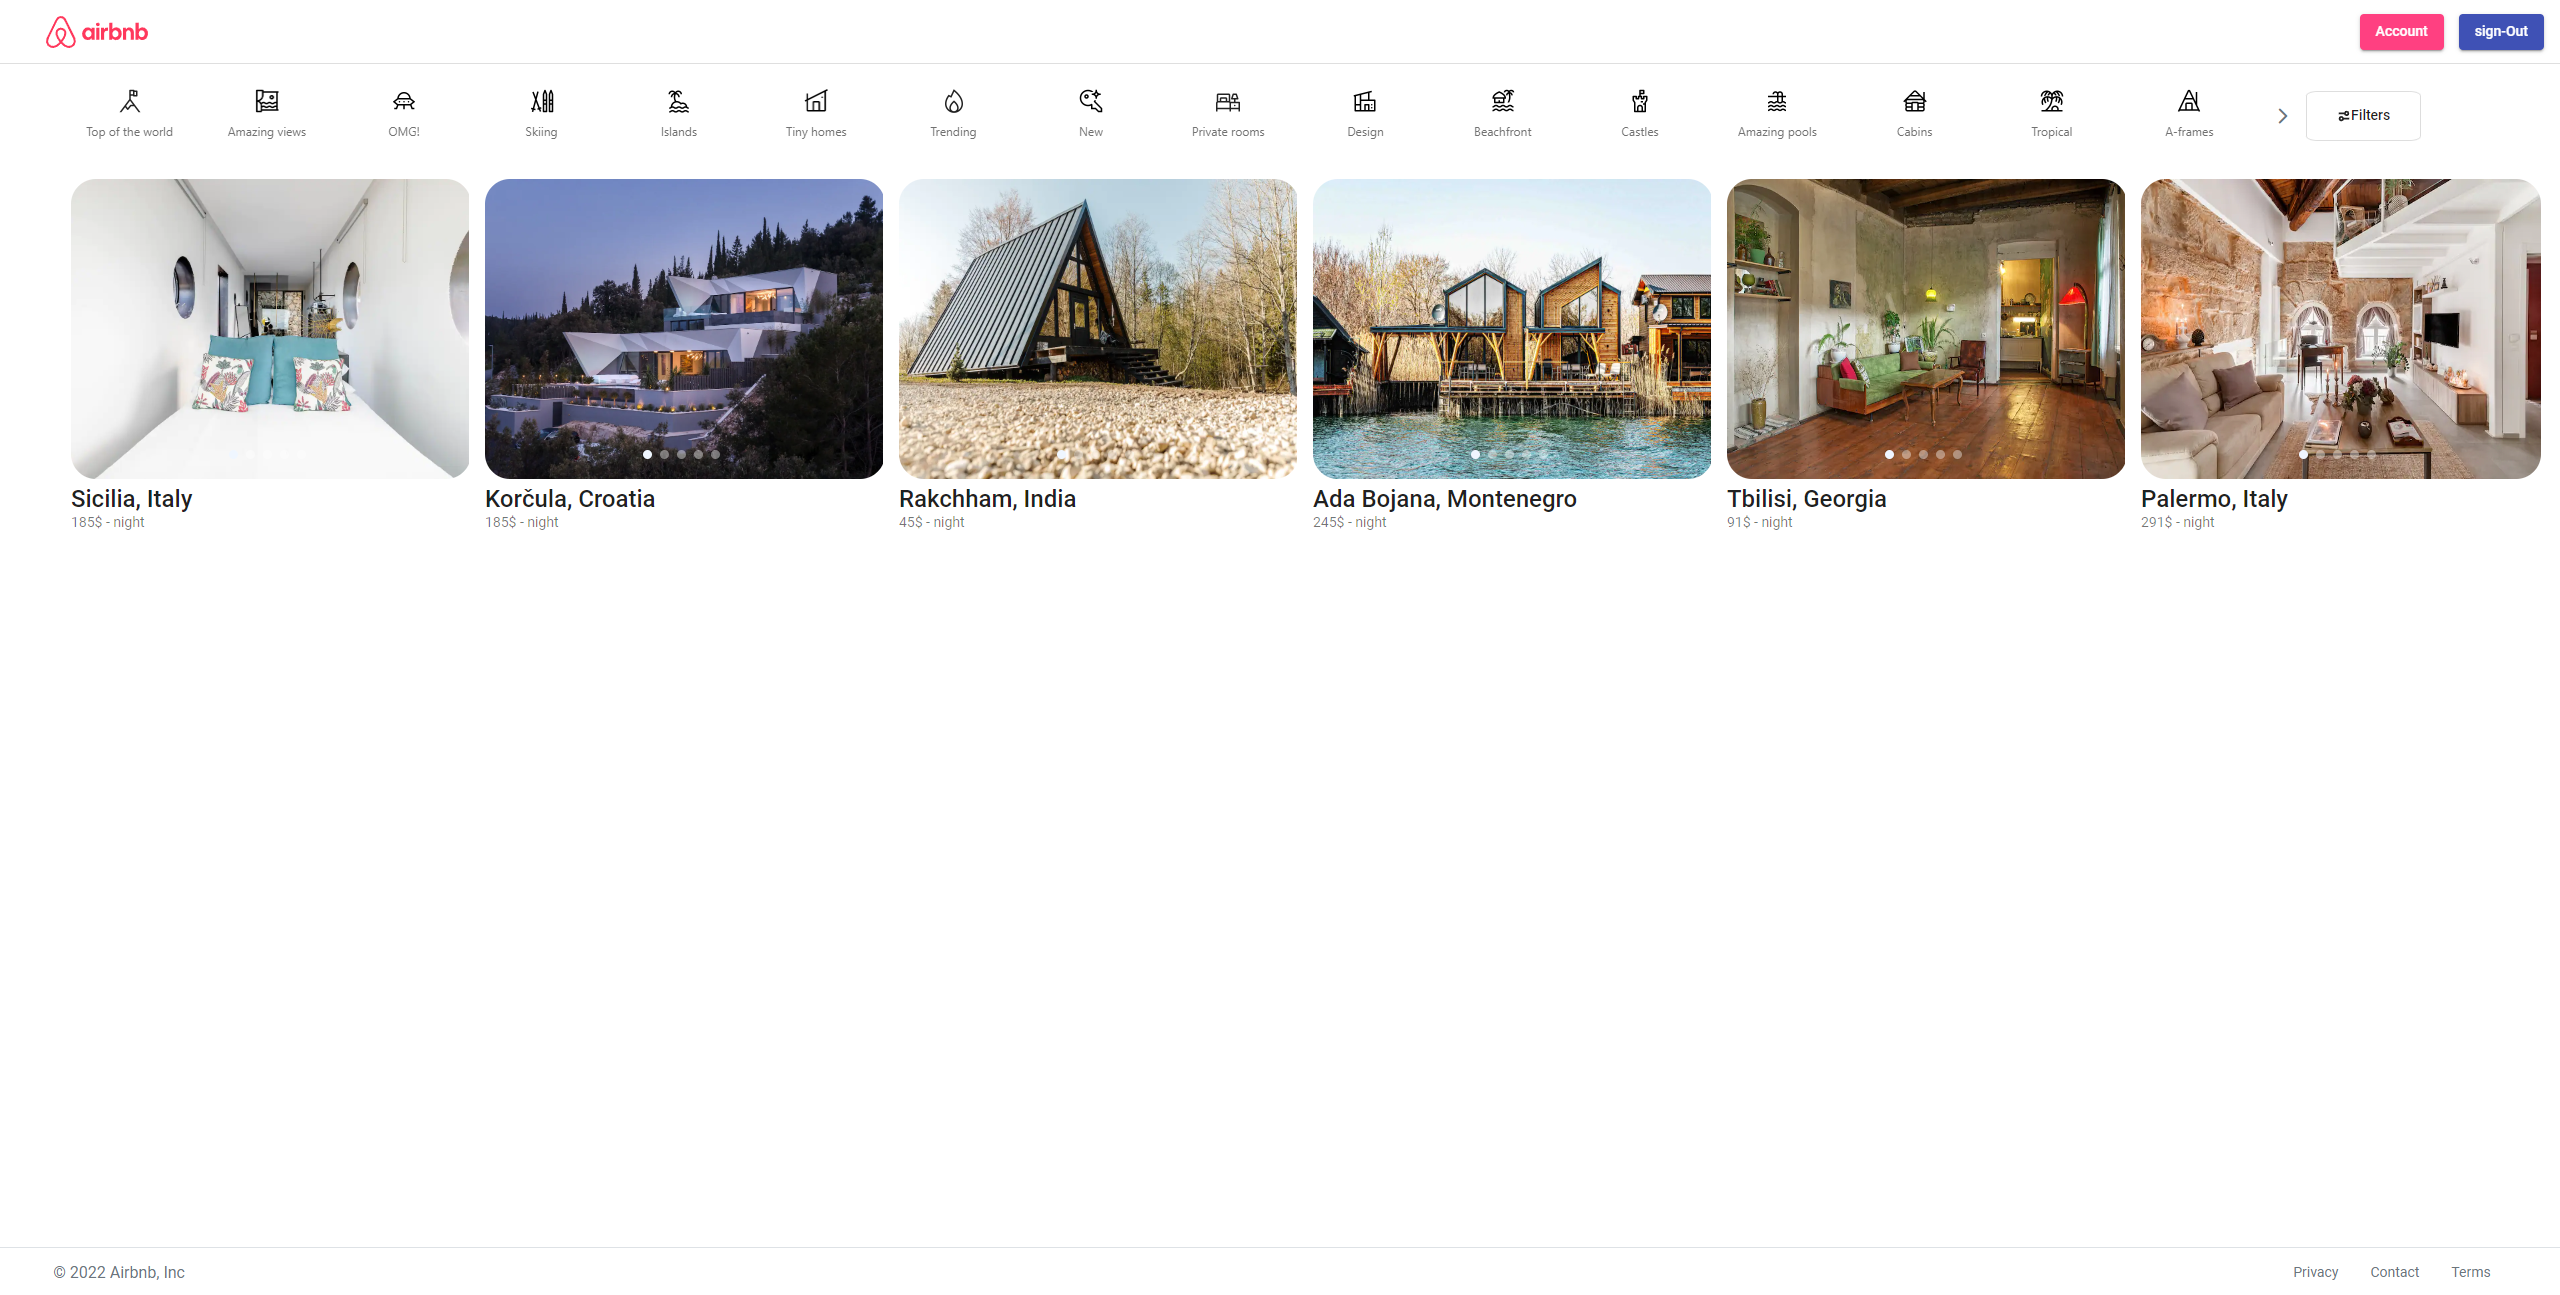
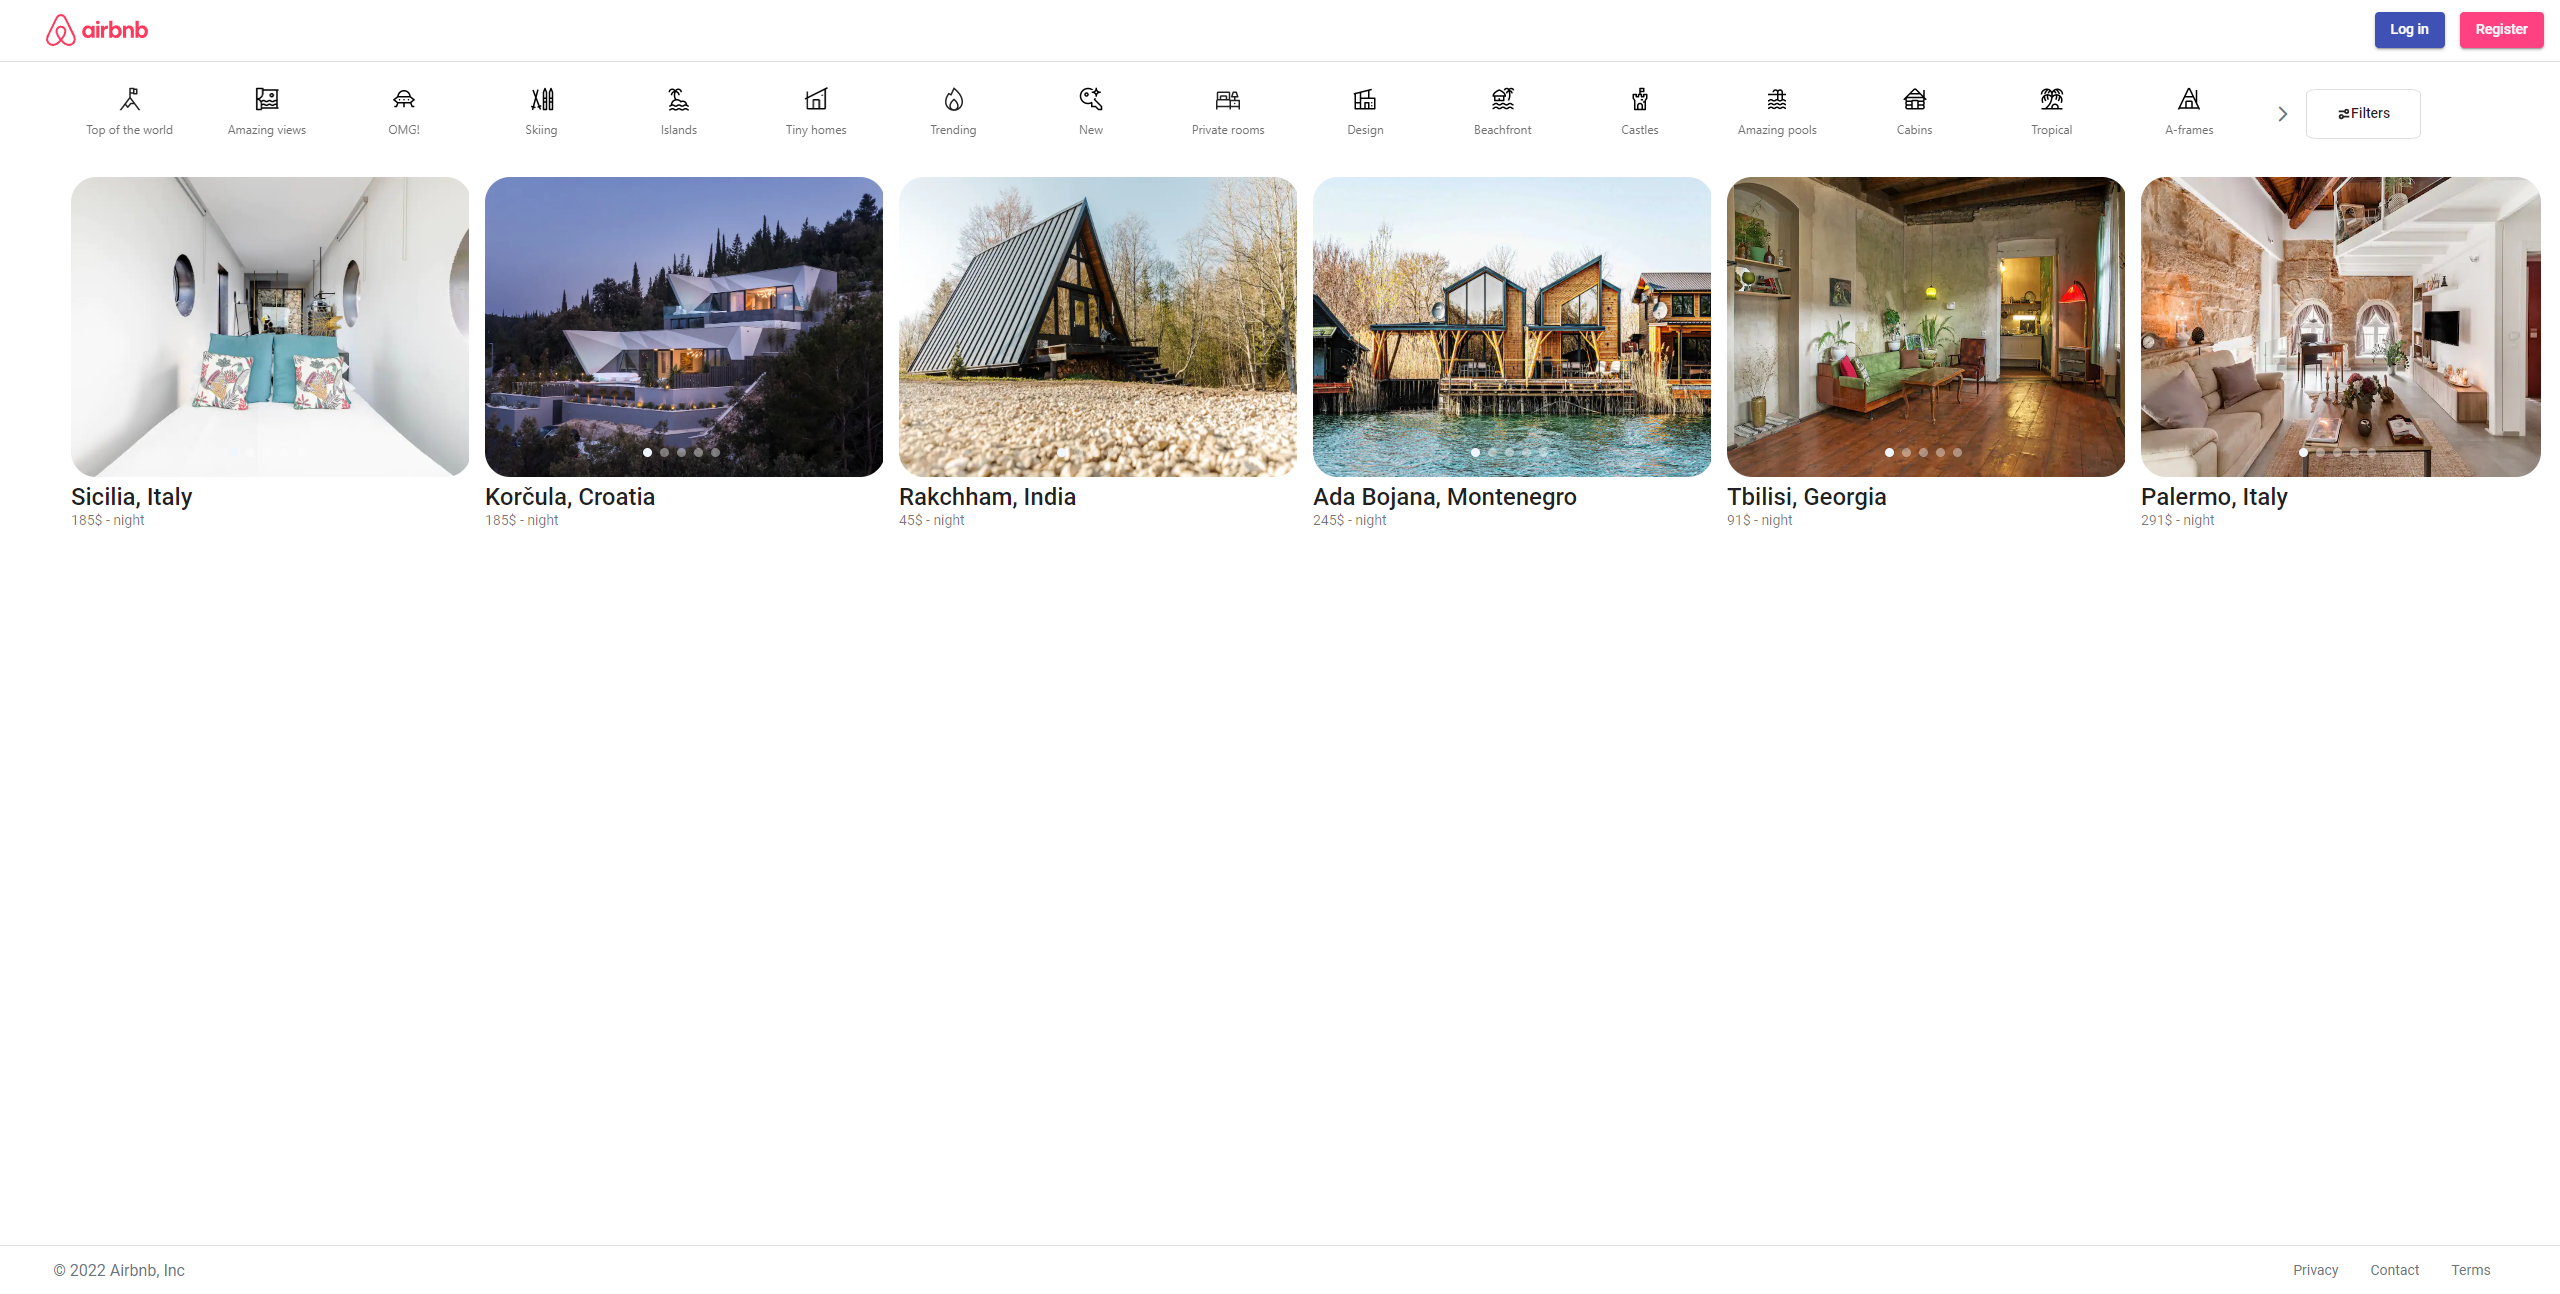
adding more readme segments

diff --git a/README.md b/README.md
@@ -37,4 +37,18 @@ $ ng serve
 
 this segments explains how website works and what you can do with it.
 
-![Algorithm schema](./images/1.png)
+- view page
+  when you first visit website, initial page looks like this.
+  ![Algorithm schema](./images/1.png)
+
+header of page has clickable buttons
+
+- airbnb logo, which takes you to home(initial page)
+- log in , lets you log in to your account
+- register, lets you register account
+  ![Algorithm schema](./images/header.png)
+
+filter that lets you filter hotels based on certain characteristics, these characteristics are associated with icons and text
+![Algorithm schema](./images/filter.png)
+filter button at the right side of the filter bar displays filter modal, that lets you filter hotels with more specific data
+![Algorithm schema](./images/filter-modal.png)
